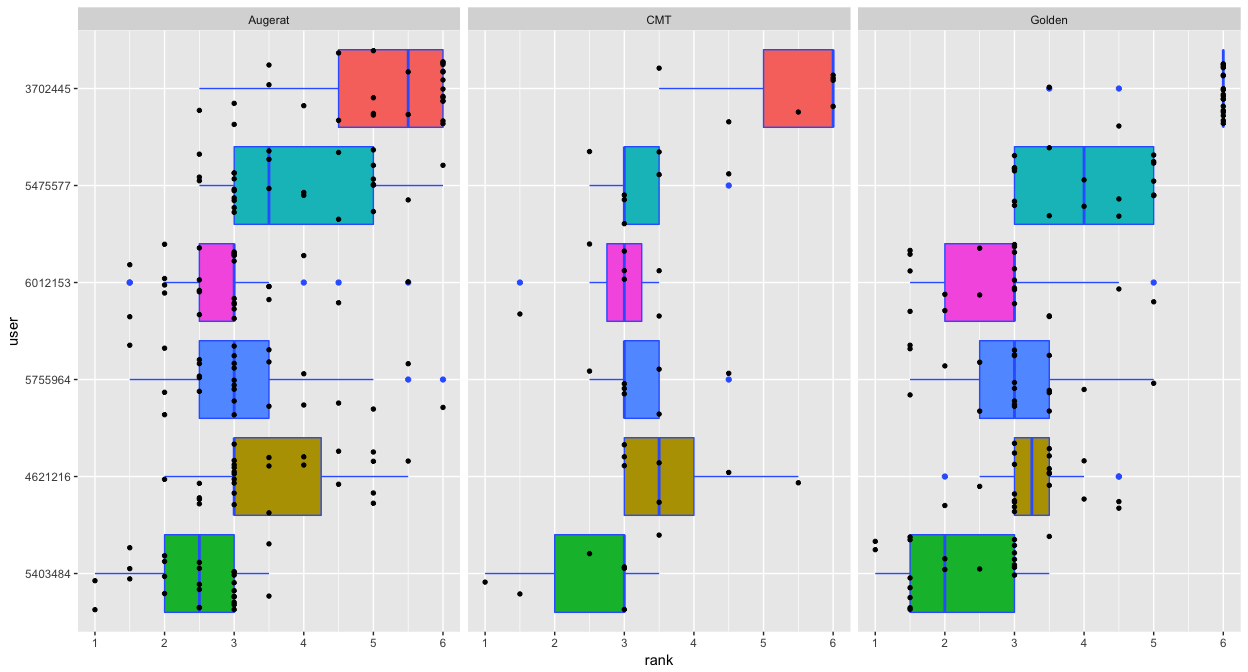
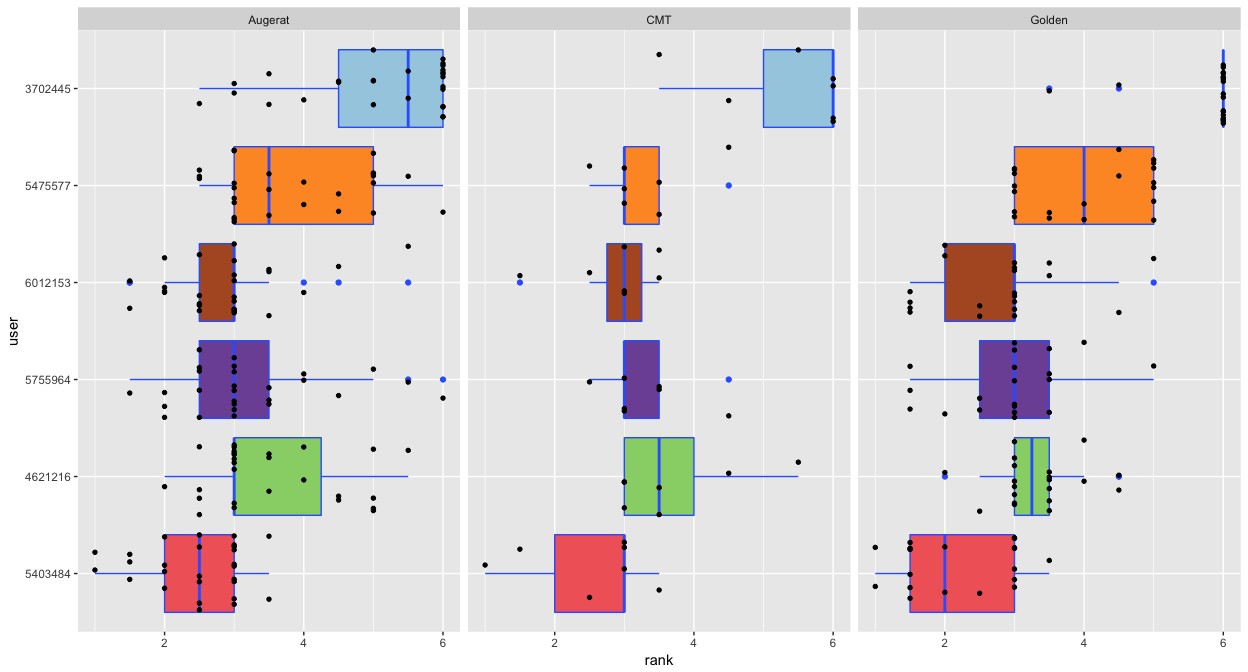
changed script

diff --git a/r/classwork.md b/r/classwork.md
@@ -1,22 +1,25 @@
-classwork
+Brief R Tutorial
 ================
 
--   [Brief R Tutorial](#brief-r-tutorial)
 -   [Transformation in ranks](#transformation-in-ranks)
-
-Brief R Tutorial
-----------------
+-   [`ggplot2`](#ggplot2)
 
 ``` r
 A<-c(1,2,3)
 D<-data.frame(alg=c(1,2,3),res=c(12,10,13))
+```
 
+``` r
 D<-read.table("../res/res.txt")
 colnames(D)<-c("alg","inst","k","cost","sec")
 boxplot(cost ~ alg, data=D, horizontal=TRUE, las=1)
 ```
 
-![](classwork_files/figure-markdown_github/basics-1.png)
+![](classwork_files/figure-markdown_github/import-1.png)
+
+``` r
+# check `par` to reformat the measures of figure 
+```
 
 ``` r
 plot(D$cost,D$sec,las=1)
@@ -42,6 +45,187 @@ D <- D %>% mutate(inst=gsub(".xml","",inst)) %>% mutate(inst=factor(inst))
 save(D,file="results.rda")
 load("results.rda")
 ```
+
+``` r
+require(tidyr)
+spread(select(D,inst,alg,k),alg,k)
+```
+
+    ##         inst 3702445 4621216 5403484 5475577 5755964 6012153
+    ## 1  A-n32-k05       5       5       5       5       5       5
+    ## 2  A-n33-k05       5       5       5       6       5       5
+    ## 3  A-n33-k06       6       6       6       7       7       6
+    ## 4  A-n34-k05       6       6       5       5       5       5
+    ## 5  A-n36-k05       5       5       5       5       5       5
+    ## 6  A-n37-k05       5       5       5       5       6       5
+    ## 7  A-n37-k06       7       7       6       7       6       7
+    ## 8  A-n38-k05       6       6       5       6       6       6
+    ## 9  A-n39-k05       6       5       5       5       5       5
+    ## 10 A-n39-k06       7       6       6       6       6       6
+    ## 11 A-n44-k06       7       6       6       7       7       6
+    ## 12 A-n45-k06       9       7       6       7       7       7
+    ## 13 A-n45-k07       8       7       7       7       7       7
+    ## 14 A-n46-k07       8       7       7       7       7       7
+    ## 15 A-n48-k07       8       7       7       7       7       7
+    ## 16 A-n53-k07       8       8       7       8       8       7
+    ## 17 A-n54-k07       8       8       7       8       7       7
+    ## 18 A-n55-k09      11       9       9      10       9       9
+    ## 19 A-n60-k09      10       9       9       9       9       9
+    ## 20 A-n61-k09      11      11      10      11      10      10
+    ## 21 A-n62-k08       9       8       8       8       8       8
+    ## 22 A-n63-k09      11      10      10      10      10      10
+    ## 23 A-n63-k10      11      11      10      11      10      10
+    ## 24 A-n64-k09      10       9       9       9       9      10
+    ## 25 A-n65-k09      11      10       9      10      10       9
+    ## 26 A-n69-k09      11      10       9       9       9       9
+    ## 27 A-n80-k10      13      10      10      11      10      10
+    ## 28     CMT01       6       6       5       6       6       5
+    ## 29     CMT02      12      11      10      11      11      11
+    ## 30     CMT03       9       8       8       8       8       8
+    ## 31     CMT04      14      12      12      12      12      12
+    ## 32     CMT05      21      17      17      17      17      17
+    ## 33     CMT11       8       8       7       7       7       7
+    ## 34     CMT12      10      10      10      10      10      10
+    ## 35 Golden_01      11       9       9       9       9       9
+    ## 36 Golden_02      12      10      10      10      10      10
+    ## 37 Golden_03      12       9       9       9       9       9
+    ## 38 Golden_04      12      10      10      10      10      10
+    ## 39 Golden_05       6       5       5       5       5       5
+    ## 40 Golden_06       7       7       7       7       7       7
+    ## 41 Golden_07       9       9       8       9       8       9
+    ## 42 Golden_08      13      10      10      10      10      10
+    ## 43 Golden_09      17      15      14      15      14      14
+    ## 44 Golden_10      19      16      16      17      16      16
+    ## 45 Golden_11      22      18      18      18      18      18
+    ## 46 Golden_12      24      20      19      20      20      19
+    ## 47 Golden_13      33      28      26      30      28      26
+    ## 48 Golden_14      36      31      30      32      31      30
+    ## 49 Golden_15      39      35      33      36      34      34
+    ## 50 Golden_16      48      39      37      40      39      37
+    ## 51 Golden_17      27      22      22      23      24      22
+    ## 52 Golden_18      33      28      27      28      27      29
+    ## 53 Golden_19      39      34      33      35      33      34
+    ## 54 Golden_20      46      39      38      40      39      39
+
+``` r
+spread(select(D,inst,alg,cost),alg,cost)
+```
+
+    ##         inst 3702445 4621216 5403484 5475577 5755964 6012153
+    ## 1  A-n32-k05    1004     867     935     967     832     817
+    ## 2  A-n33-k05     780     743     726     724     696     678
+    ## 3  A-n33-k06     837     766     845     869     774     742
+    ## 4  A-n34-k05     945     889     789     830     793     785
+    ## 5  A-n36-k05     894     862     903     892     805     841
+    ## 6  A-n37-k05     826     741     767     863     702     679
+    ## 7  A-n37-k06    1096    1112    1080    1116     960    1008
+    ## 8  A-n38-k05     909     822     800     816     754     757
+    ## 9  A-n39-k05    1036     883     856     902     879     873
+    ## 10 A-n39-k06    1050     887     833     868     838     860
+    ## 11 A-n44-k06    1138    1029     999    1092     997    1005
+    ## 12 A-n45-k06    1226    1014    1143    1109     980     977
+    ## 13 A-n45-k07    1390    1250    1316    1245    1197    1203
+    ## 14 A-n46-k07    1195     997     988    1092     925     928
+    ## 15 A-n48-k07    1366    1232    1228    1217    1100    1113
+    ## 16 A-n53-k07    1224    1142    1134    1225    1112    1052
+    ## 17 A-n54-k07    1412    1258    1378    1376    1185    1246
+    ## 18 A-n55-k09    1332    1158    1154    1234    1109    1078
+    ## 19 A-n60-k09    1556    1412    1488    1533    1365    1403
+    ## 20 A-n61-k09    1243    1300    1143    1362    1099    1103
+    ## 21 A-n62-k08    1592    1379    1459    1466    1368    1391
+    ## 22 A-n63-k09    2072    1764    1810    1851    1663    1737
+    ## 23 A-n63-k10    1640    1504    1466    1532    1347    1399
+    ## 24 A-n64-k09    1725    1530    1595    1552    1456    1525
+    ## 25 A-n65-k09    1500    1274    1377    1442    1249    1184
+    ## 26 A-n69-k09    1481    1297    1333    1375    1185    1212
+    ## 27 A-n80-k10    2321    1903    2053    1940    1803    1968
+    ## 28     CMT01     694     604     554     700     582     521
+    ## 29     CMT02    1045     920     984     952     884     867
+    ## 30     CMT03    1068     985     931    1033     871     839
+    ## 31     CMT04    1408    1196    1195    1234    1105    1045
+    ## 32     CMT05    1790    1496    1645    1561    1351    1358
+    ## 33     CMT11    1458    1111    1321    1095    1037    1247
+    ## 34     CMT12     968     909    1077     884     826     901
+    ## 35 Golden_01    7840    6055    5863    5822    5623    5838
+    ## 36 Golden_02   12238    9121    9226    9328    8856    8911
+    ## 37 Golden_03   16680   12144   12912   12126   12545   11476
+    ## 38 Golden_04   21534   15644   17307   16068   17646   14369
+    ## 39 Golden_05   10500    7330    8610    9194    8037    6989
+    ## 40 Golden_06   12820    9698   10846   10056   10515    8843
+    ## 41 Golden_07   15149   11655   12055   11411   12379   10831
+    ## 42 Golden_08   17395   12835   13630   12929   13252   12246
+    ## 43 Golden_09     732     590     590     645     526     630
+    ## 44 Golden_10     933     763     752     815     672     809
+    ## 45 Golden_11    1178     963     935    1039     833     986
+    ## 46 Golden_12    1455    1192    1193    1217    1017    1204
+    ## 47 Golden_13    1191     972     967    1119     944     937
+    ## 48 Golden_14    1500    1194    1313    1371    1186    1224
+    ## 49 Golden_15    1781    1501    1577    1704    1474    1519
+    ## 50 Golden_16    2291    1880    1911    2083    1787    1887
+    ## 51 Golden_17     965     774     797     929     739     727
+    ## 52 Golden_18    1309    1108    1130    1262    1063    1122
+    ## 53 Golden_19    1783    1578    1627    1624    1424    1554
+    ## 54 Golden_20    2381    2084    2168    2295    1951    2101
+
+``` r
+spread(select(D,inst,alg,sec),alg,sec)
+```
+
+    ##         inst 3702445 4621216 5403484 5475577 5755964 6012153
+    ## 1  A-n32-k05    0.32    0.29    1.07    0.13    0.02   60.02
+    ## 2  A-n33-k05    0.33    0.27    1.50    0.13    0.03   59.93
+    ## 3  A-n33-k06    0.32    0.31    0.93    0.14    0.03   50.72
+    ## 4  A-n34-k05    0.32    0.30    0.96    0.13    0.04   59.91
+    ## 5  A-n36-k05    0.34    0.30    1.11    0.12    0.05   60.01
+    ## 6  A-n37-k05    0.34    0.30    1.58    0.13    0.04   59.90
+    ## 7  A-n37-k06    0.32    0.30    1.34    0.14    0.03   60.02
+    ## 8  A-n38-k05    0.33    0.28    1.14    0.13    0.04   59.85
+    ## 9  A-n39-k05    0.33    0.27    1.26    0.13    0.04   60.02
+    ## 10 A-n39-k06    0.34    0.30    2.00    0.13    0.05   59.87
+    ## 11 A-n44-k06    0.32    0.30    2.32    0.14    0.04   60.03
+    ## 12 A-n45-k06    0.34    0.30    1.13    0.16    0.06   59.87
+    ## 13 A-n45-k07    0.33    0.33    1.20    0.12    0.04   59.98
+    ## 14 A-n46-k07    0.35    0.31    3.36    0.14    0.04   59.89
+    ## 15 A-n48-k07    0.34    0.32    1.88    0.14    0.05   59.99
+    ## 16 A-n53-k07    0.35    0.29    2.48    0.14    0.06   59.88
+    ## 17 A-n54-k07    0.36    0.30    3.87    0.13    0.05   60.01
+    ## 18 A-n55-k09    0.37    0.29    3.32    0.14    0.05   59.89
+    ## 19 A-n60-k09    0.34    0.30    5.30    0.14    0.05   60.00
+    ## 20 A-n61-k09    0.39    0.31    9.12    0.14    0.06   59.88
+    ## 21 A-n62-k08    0.39    0.31    4.84    0.15    0.05   59.92
+    ## 22 A-n63-k09    0.38    0.29    4.77    0.14    0.07   59.89
+    ## 23 A-n63-k10    0.37    0.31    3.51    0.14    0.06   60.02
+    ## 24 A-n64-k09    0.35    0.32    4.96    0.14    0.06   59.91
+    ## 25 A-n65-k09    0.37    0.30    3.73    0.14    0.06   60.03
+    ## 26 A-n69-k09    0.39    0.31   10.06    0.14    0.09   59.89
+    ## 27 A-n80-k10    0.45    0.31    8.23    0.15    0.11   60.01
+    ## 28     CMT01    0.35    0.30    2.81    0.14    0.05   59.88
+    ## 29     CMT02    0.42    0.31    6.89    0.14    0.07   60.01
+    ## 30     CMT03    0.54    0.33   31.29    0.16    0.11   59.91
+    ## 31     CMT04    1.02    0.38   51.46    0.21    0.43   60.04
+    ## 32     CMT05    1.91    0.43   59.96    0.24    0.51   59.96
+    ## 33     CMT11    0.69    0.34   28.34    0.17    0.21   60.04
+    ## 34     CMT12    0.52    0.32   16.32    0.15    0.12   59.90
+    ## 35 Golden_01    3.14    0.49   59.97    0.32    0.89   60.14
+    ## 36 Golden_02    6.89    0.66   59.98    0.48    0.94   60.08
+    ## 37 Golden_03   12.29    1.04   60.93    0.71    2.94   60.27
+    ## 38 Golden_04   20.91    1.35   60.02    0.97    2.40   60.30
+    ## 39 Golden_05    1.89    0.49   60.28    0.29    0.64   59.97
+    ## 40 Golden_06    4.56    0.63   60.55    0.40    1.09   60.09
+    ## 41 Golden_07    9.04    0.83   60.00    0.62    2.14   60.06
+    ## 42 Golden_08   16.13    1.20   60.00    0.79    3.29   60.18
+    ## 43 Golden_09    3.62    0.52   59.95    0.35    0.51   59.85
+    ## 44 Golden_10    6.75    0.74   59.98    0.49    1.24   60.17
+    ## 45 Golden_11   12.01    0.99   60.00    0.70    2.52   60.05
+    ## 46 Golden_12   21.33    1.43   59.99    0.93    3.95   60.36
+    ## 47 Golden_13    3.41    0.58   59.94    0.32    0.90   59.97
+    ## 48 Golden_14    6.39    0.74   59.96    0.46    1.75   60.16
+    ## 49 Golden_15   11.44    0.96   59.96    0.64    2.04   60.05
+    ## 50 Golden_16   20.38    1.43   60.00    0.86    3.16   60.29
+    ## 51 Golden_17    3.15    0.60   59.95    0.32    0.49   59.89
+    ## 52 Golden_18    5.55    0.66   59.94    0.41    0.69   60.11
+    ## 53 Golden_19    9.31    1.02   59.98    0.53    2.05   60.07
+    ## 54 Golden_20   14.40    1.35   59.98    0.71    1.33   60.18
 
 ``` r
 require(tidyr)
@@ -78,33 +262,10 @@ EVAL_LONG
 # tbl_df(EVAL_LONG) # from tibble to data frame to show all rows 
 ```
 
-We can order the levels of the `alg` factor as follows:
+`ggplot2`
+---------
 
-``` r
-require(ggplot2)
-p <- ggplot(EVAL_LONG,aes(x=reorder(alg, rank, median), y=rank)) # we start the plot saying which data and aestetics to use
-p <- p + geom_boxplot(aes(fill=alg),width=0.8,stat = "boxplot",
-                  position = position_dodge(width = 0),
-                  colour = I("#3366FF"),outlier.colour = I("#3366FF"))
-p <- p + guides(fill=FALSE) # remove the fill legend
-p <- p + geom_jitter(size=1.2,position = position_jitter(height=0,width=0.4))
-p <- p + coord_cartesian(ylim=c(1,nlevels(EVAL_LONG$alg))) 
-p <- p + scale_y_continuous(breaks=seq(1, nlevels(EVAL_LONG$alg), 1))
-# p <- p + scale_y_continuous(limits=c(1,nlevels(DATA$alg)))
-p <- p + labs(x="user")
-p <- p + coord_flip() # show the plot horizontally
-#p <- p + scale_fill_manual(name = "alg", values = myColors)
-#p <- p + facet_grid(class~.)
-p <- p + facet_grid(.~class) # faceting
-print(p)
-```
-
-<img src="classwork_files/figure-markdown_github/bwrankhard-1.png" style="display: block; margin: auto;" />
-
-``` r
-require(dplyr)
-EVAL_LONG <- EVAL_LONG %>% mutate(alg=factor(alg,levels=levels(reorder(EVAL_LONG$alg, EVAL_LONG$rank, median))))
-```
+We prepare colors that we will use in the plot. One different color for each algorithm.
 
 ``` r
 # we prepare the colors
@@ -113,4 +274,38 @@ colfun <- colorRampPalette(brewer.pal(12, "Paired"))
 myColors <- colfun(nlevels(D$alg)) # we keep out the entries from the previous year
 # myColors <- c(myColors,rep("#FFFFFF",9)) # white for the entries from the previous year
 names(myColors)<-levels(D$alg)
+```
+
+We proceed by defining the ggplot in his layers:
+
+``` r
+require(ggplot2)
+# we start the plot saying defining the data and aestetics levels
+g <- ggplot(EVAL_LONG,aes(x=reorder(alg, rank, median), y=rank)) 
+# we define the geometrical object 
+g <- g + geom_boxplot(aes(fill=alg),width=0.8,stat = "boxplot",
+                  position = position_dodge(width = 0),
+                  colour = I("#3366FF"),outlier.colour = I("#3366FF"))
+g <- g + guides(fill=FALSE) # remove the fill legend
+# we overimpose another geometrical object
+g <- g + geom_jitter(size=1.2,position = position_jitter(height=0,width=0.4))
+# we define the facets
+g <- g + facet_grid(.~class) # faceting
+# We can control the coordinates
+# g <- g + coord_cartesian(ylim=c(1,nlevels(EVAL_LONG$alg))) 
+# g <- g + scale_y_continuous(breaks=seq(1, nlevels(EVAL_LONG$alg), 1))
+# g <- g + scale_y_continuous(limits=c(1,nlevels(DATA$alg)))
+# the color is also a coordinate se we specify colors:
+g <- g + scale_fill_manual(name = "alg", values = myColors)
+g <- g + coord_flip() # show the plot horizontally
+g <- g + labs(x="user")
+# we could change the theme
+print(g)
+```
+
+<img src="classwork_files/figure-markdown_github/bwrankhard-1.png" style="display: block; margin: auto;" />
+
+``` r
+require(dplyr)
+EVAL_LONG <- EVAL_LONG %>% mutate(alg=factor(alg,levels=levels(reorder(EVAL_LONG$alg, EVAL_LONG$rank, median))))
 ```
